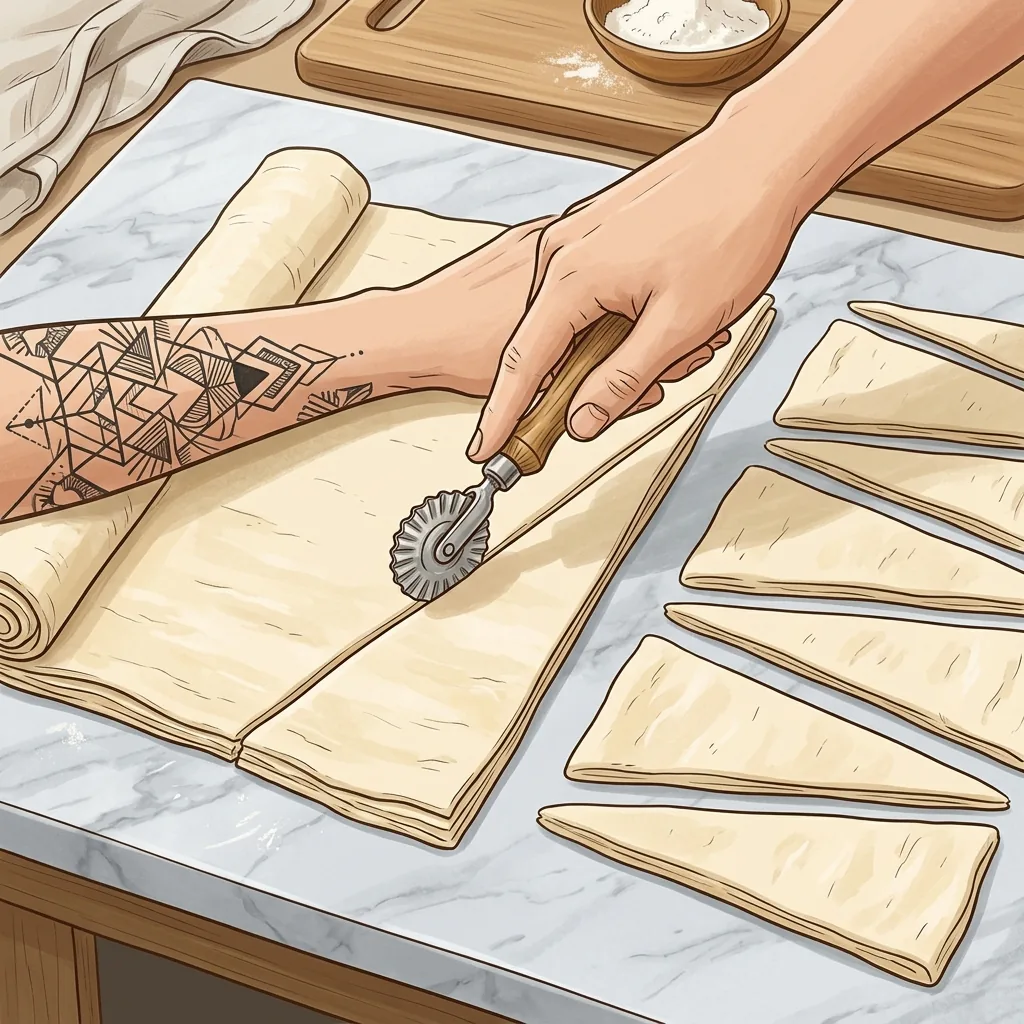
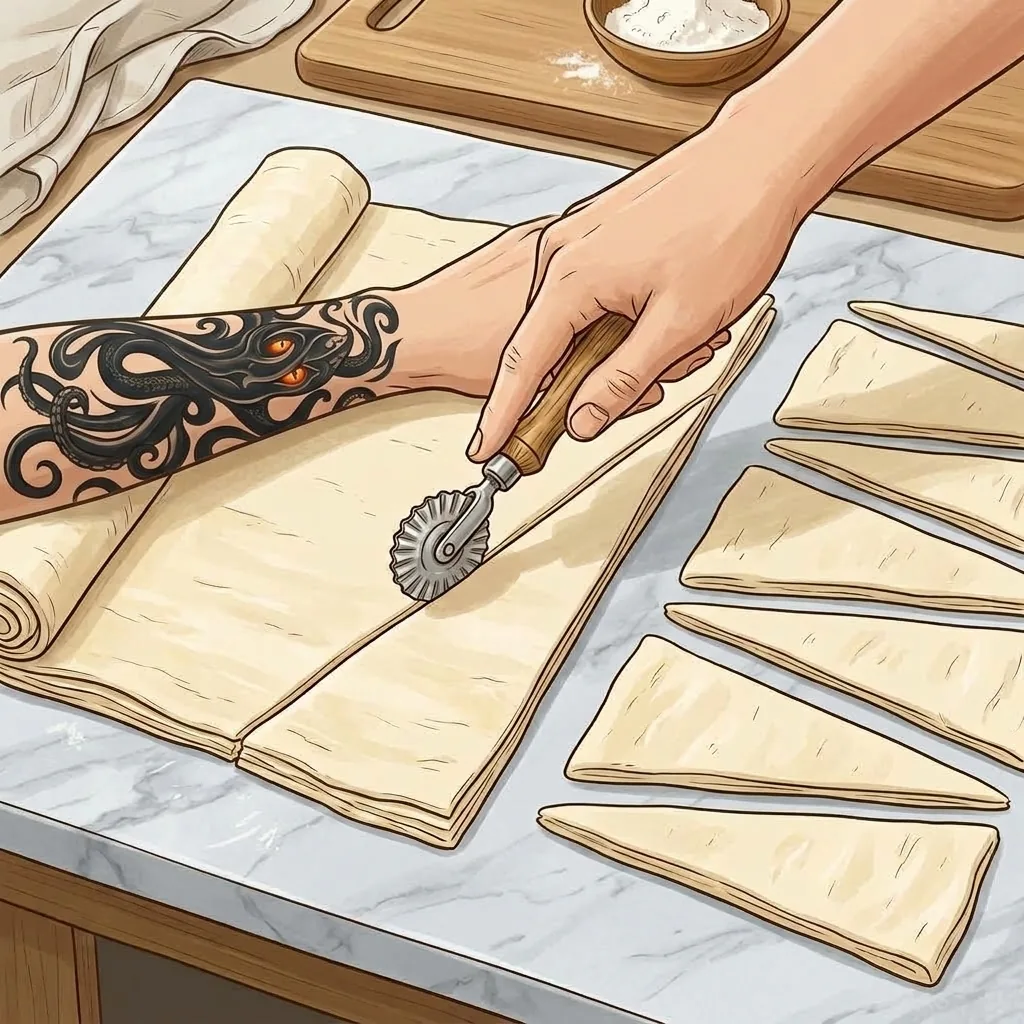
## 3 Task Completati
- **5 tecniche verificate**: baguette, pieghe, pirlatura, filone, panettone ora mostrano "Verificato da Michele ✓" (testato in IT ed EN). Croissant lasciato bozza
- **Croissant completato**: Sitor ora inserisce le misure classiche indicative (sfoglia 3-4 mm, triangoli base 9-10 cm, altezza 24-26 cm) e invita a chiedere in chat misure su misura — niente più "[da definire]". Rileggila e marca "Verifica ✓" da admin se ti convince
- **Polipo MikiLab esatto**: ritagliato il tatuaggio reale dall'avatar (polipo nero, tentacoli, occhi arancio-ambra) e rigenerate le 12 illustrazioni con braccia in edit-mode — tribale sostituito col polipo. Verificato a schermo
- **Bug fix bonus**: il flag "verificato" ora vale per tutte le lingue (tecniche e corsi) e le nuove generazioni lo ereditano — prima un doc EN poteva nascondere la verifica IT

Next Action Items:
- **Verifica il croissant**: Rileggi la guida aggiornata e marcala "Verificato" dal sito admin se le misure ti tornano
- **Copertine corsi**: Marca "Verificato" i corsi ricetta che hai già collaudato, così gli utenti vedono il tuo sigillo
- **Panino al Latte e Start Here**: Genera e verifica i corsi delle 5 ricette del percorso iniziale (le più cliccate)
- **Regressione completa**: Fai girare il testing agent su tutti i flussi pubblici e admin dopo queste modifiche

Emergent-Commit-Key: eaa52663562798705ee9568b8557e68b78e2260ca41acad3c62aba67e0174bf1

diff --git a/frontend/src/components/TecnichePage.jsx b/frontend/src/components/TecnichePage.jsx
@@ -33,9 +33,11 @@ export default function TecnichePage({ initialSlug, onBack }) {
         <button data-testid="technique-back" onClick={() => setSlug(null)} className="inline-flex items-center gap-1 text-sm font-bold text-muted-foreground hover:text-foreground"><ChevronLeft className="w-4 h-4" />{tri("Tutte le tecniche", "Alle Techniken", "All techniques")}</button>
         <div className="flex items-center gap-2 flex-wrap">
           <h1 className="font-display text-3xl font-black text-foreground">{page?.title || slug}</h1>
-          <span data-testid="technique-verified" className={`text-[10px] font-bold px-2 py-0.5 rounded-full ${page?.verified ? "bg-accent/30 text-accent-foreground" : "bg-foreground/10 text-muted-foreground"}`}>
-            {page?.verified ? tri("Verificato da Michele ✓", "Von Michele geprüft ✓", "Verified by Michele ✓") : tri("Bozza di Sitor", "Sitor-Entwurf", "Sitor draft")}
-          </span>
+          {page && !page.error && (
+            <span data-testid="technique-verified" className={`text-[10px] font-bold px-2 py-0.5 rounded-full ${page.verified ? "bg-accent/30 text-accent-foreground" : "bg-foreground/10 text-muted-foreground"}`}>
+              {page.verified ? tri("Verificato da Michele ✓", "Von Michele geprüft ✓", "Verified by Michele ✓") : tri("Bozza di Sitor", "Sitor-Entwurf", "Sitor draft")}
+            </span>
+          )}
           {isAdmin && page && !page.error && (
             <button data-testid="technique-verify-toggle" onClick={async () => {
               try {

diff --git a/backend/sitor_public.py b/backend/sitor_public.py
@@ -144,12 +144,14 @@ async def course_v2(recipe_id: str, lang: str = "it", user: _Opt[dict] = Depends
         course = await _generate_course(recipe, lang2)
         if not course:
             raise HTTPException(status_code=503, detail="course_unavailable")
+        # la verifica vale per la ricetta, non per la singola lingua
+        prev = await db.recipe_courses_v2.find_one({"recipe_id": recipe_id, "verified": True}, {"_id": 0, "verified": 1})
         await db.recipe_courses_v2.update_one(
             {"recipe_id": recipe_id, "lang": lang2},
             {"$set": {"recipe_id": recipe_id, "lang": lang2, "recipe_name": recipe.get("name", ""),
-                      "course": course, "verified": False, "generated_at": now_iso()}},
+                      "course": course, "verified": bool(prev), "generated_at": now_iso()}},
             upsert=True)
-        return {"ok": True, "cached": False, "course": course, "verified": False, "recipe_name": recipe.get("name", "")}
+        return {"ok": True, "cached": False, "course": course, "verified": bool(prev), "recipe_name": recipe.get("name", "")}
 
 
 class CourseVerifyReq(_BM):
@@ -161,14 +163,22 @@ class CourseVerifyReq(_BM):
 async def course_v2_edit(recipe_id: str, body: CourseVerifyReq, lang: str = "it", admin: dict = Depends(require_admin)):
     lang2 = _lang2(lang)
     upd = {}
-    if body.verified is not None:
-        upd["verified"] = bool(body.verified)
     if body.course is not None:
         upd["course"] = body.course
+    if body.verified is not None and body.course is None:
+        # solo flag: vale per tutte le lingue della ricetta
+        await db.recipe_courses_v2.update_many({"recipe_id": recipe_id},
+            {"$set": {"verified": bool(body.verified), "updated_at": now_iso()}})
+        return {"ok": True, "verified": bool(body.verified)}
+    if body.verified is not None:
+        upd["verified"] = bool(body.verified)
     if not upd:
         raise HTTPException(status_code=400, detail="nothing_to_update")
     upd["updated_at"] = now_iso()
     await db.recipe_courses_v2.update_one({"recipe_id": recipe_id, "lang": lang2}, {"$set": upd}, upsert=True)
+    if body.verified is not None:
+        await db.recipe_courses_v2.update_many({"recipe_id": recipe_id, "lang": {"$ne": lang2}},
+            {"$set": {"verified": bool(body.verified)}})
     doc = await db.recipe_courses_v2.find_one({"recipe_id": recipe_id, "lang": lang2}, {"_id": 0})
     return {"ok": True, "course": doc.get("course"), "verified": bool(doc.get("verified"))}
 
@@ -284,8 +294,11 @@ async def _gen_technique(slug: str, lang2: str) -> _Opt[dict]:
     langname = _SYS.get(lang2, "italiano")
     extra = ""
     if slug == "croissant":
-        extra = ("IMPORTANTE: NON inventare misure dei triangoli (base/altezza) né spessori: lascia quei valori come "
-                 "'[da definire]'. Descrivi solo i gesti: laminazione, stesura, taglio dei triangoli, incisione della base, arrotolamento.")
+        extra = ("Per le misure dei triangoli NON scrivere '[da definire]': dai le misure classiche indicative "
+                 "(sfoglia stesa a 3-4 mm di spessore, triangoli con base 9-10 cm e altezza 24-26 cm), "
+                 "segnalandole chiaramente come indicative, e invita il lettore a chiedere a Sitor nella chat "
+                 "le misure adatte al suo stampo o alla sua ricetta. "
+                 "Descrivi bene i gesti: laminazione, stesura, taglio dei triangoli, incisione della base, arrotolamento.")
     if slug == "panettone":
         extra = "Concentrati sul capovolgimento a testa in giù con i ferri/spiedi infilati alla base, e sul raffreddamento appeso."
     sysmsg = (
@@ -315,7 +328,13 @@ async def _gen_technique(slug: str, lang2: str) -> _Opt[dict]:
 
 @api_router.get("/techniques")
 async def techniques_list(user: _Opt[dict] = Depends(optional_user)):
-    stored = {d["slug"]: d async for d in db.technique_pages.find({}, {"_id": 0, "slug": 1, "verified": 1, "hidden_images": 1})}
+    stored = {}
+    async for d in db.technique_pages.find({}, {"_id": 0, "slug": 1, "verified": 1, "hidden_images": 1}):
+        s = d["slug"]
+        cur = stored.get(s) or {"verified": False, "hidden_images": []}
+        cur["verified"] = cur["verified"] or bool(d.get("verified"))
+        cur["hidden_images"] = d.get("hidden_images") or cur["hidden_images"]
+        stored[s] = cur
     return {"techniques": [{"slug": t["slug"], "it": t["it"], "de": t["de"], "en": t["en"],
                             "verified": bool(stored.get(t["slug"], {}).get("verified"))} for t in TECHNIQUES]}
 
@@ -328,7 +347,8 @@ async def technique_get(slug: str, lang: str = "it", user: _Opt[dict] = Depends(
     if lang2 not in _COURSE_LANGS:
         lang2 = "it"
     doc = await db.technique_pages.find_one({"slug": slug, "lang": lang2}, {"_id": 0})
-    meta = await db.technique_pages.find_one({"slug": slug}, {"_id": 0, "verified": 1, "hidden_images": 1}) or {}
+    meta = await db.technique_pages.find_one({"slug": slug, "verified": True}, {"_id": 0, "verified": 1, "hidden_images": 1}) \
+        or await db.technique_pages.find_one({"slug": slug}, {"_id": 0, "verified": 1, "hidden_images": 1}) or {}
     t = _TQ_BY_SLUG[slug]
     if doc and doc.get("body"):
         return {"ok": True, "slug": slug, "title": t[lang2], "body": doc["body"],
@@ -345,7 +365,7 @@ async def technique_get(slug: str, lang: str = "it", user: _Opt[dict] = Depends(
         if not body:
             raise HTTPException(status_code=503, detail="technique_unavailable")
         await db.technique_pages.update_one({"slug": slug, "lang": lang2},
-            {"$set": {"slug": slug, "lang": lang2, "body": body, "generated_at": now_iso()}}, upsert=True)
+            {"$set": {"slug": slug, "lang": lang2, "body": body, "verified": bool(meta.get("verified")), "generated_at": now_iso()}}, upsert=True)
         return {"ok": True, "slug": slug, "title": t[lang2], "body": body,
                 "verified": bool(meta.get("verified")), "hidden_images": meta.get("hidden_images") or []}
 

diff --git a/memory/PRD.md b/memory/PRD.md
@@ -1,3 +1,12 @@
+# ⚡ AGGIORNAMENTO (2026-09) — Tecniche verificate + Polipo MikiLab
+
+- **5 tecniche marcate "Verificato da Michele"** (baguette, pieghe, pirlatura, filone, panettone) via `PUT /api/techniques/{slug}`. Croissant lasciato bozza ma **guida rigenerata**: il prompt di `_gen_technique` ora inserisce misure classiche indicative (sfoglia 3-4mm, triangoli base 9-10cm, altezza 24-26cm) e invita a chiedere a Sitor in chat misure adatte — niente più "[da definire]". Cache croissant azzerata (si rigenera nelle altre lingue al primo accesso).
+- **Tatuaggio polipo MikiLab esatto**: ritagliato il polipo (nero, tentacoli, occhi arancio-ambra) da `michele-avatar-real.jpg` in asset pubblico `tattoo-polipo-mikilab.png`; rigenerate in edit-mode le **12 illustrazioni tecniche con braccia visibili** sostituendo il tribale col polipo (baguette/3, filone/3, panettone/2-3 non hanno braccia, invariate). pirlatura/2 e filone/1 riprodotte da zero per conservare la scena singola.
+- **Fix flag verified multi-lingua**: tecniche — la lista e il GET ora usano "qualsiasi lingua verificata vince" (`techniques_list` aggrega per slug; meta preferisce doc con verified=True) e le nuove lingue ereditano il flag. Corsi — `course_v2_edit` propaga `verified` a TUTTE le lingue della ricetta (update_many) e le nuove generazioni ereditano il flag. Bug trovato e risolto: il doc EN di pieghe senza flag aveva "coperto" quello IT verificato nella lista.
+
+---
+
+
 # ⚡ AGGIORNAMENTO (2026-09) — Panettoni luminosi + Toggle admin "verified"
 
 - **17 foto panettoni rigenerate** (`pan_*.webp`) in luce naturale luminosa e uniforme (stampo rosso su legno chiaro, sfondo bottega ariosa), coerenti con le nuove copertine. Sostituiti gli sfondi scuri/notturni (era il caso di tiramisù, classico). Serviti 200 OK come WebP (~100-114KB). Stessi slug → nessuna modifica DB.
